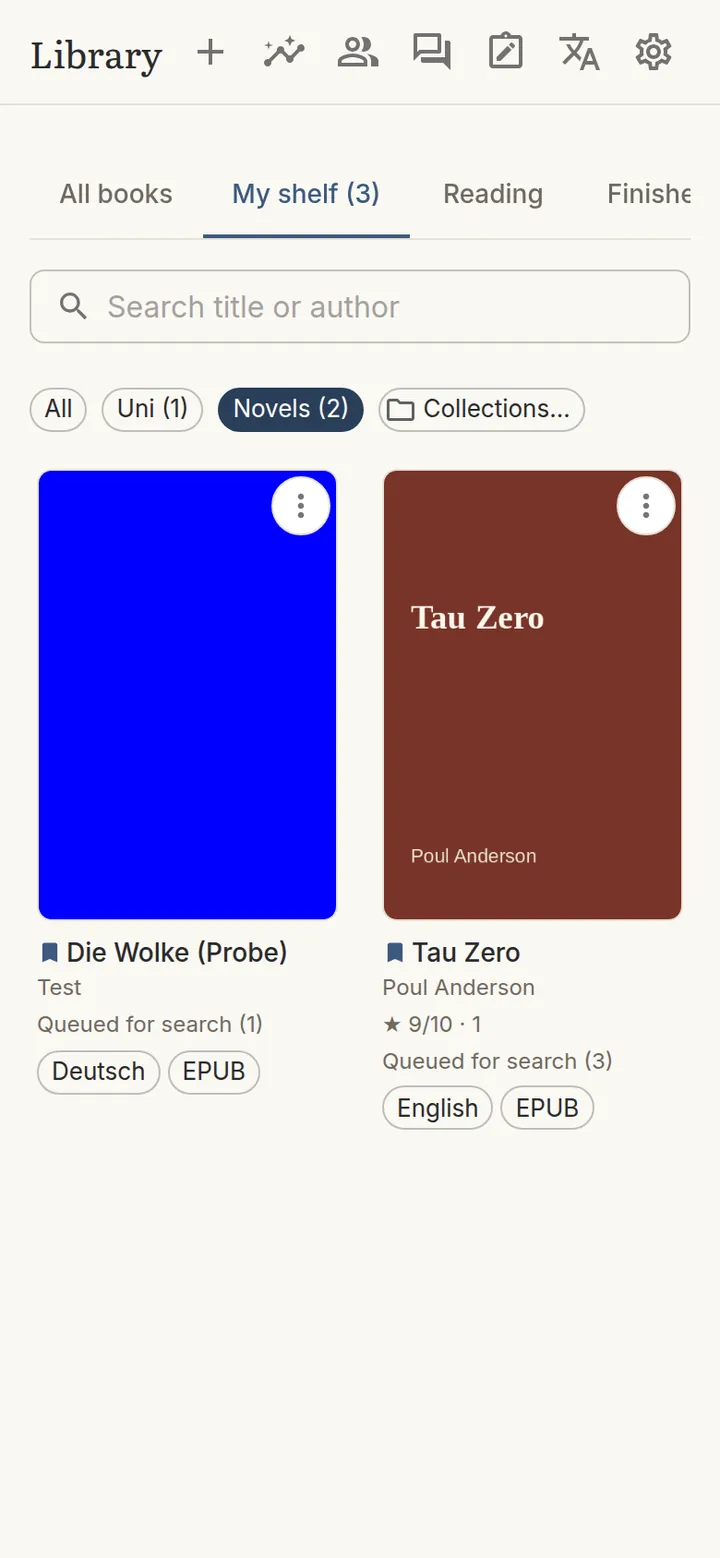
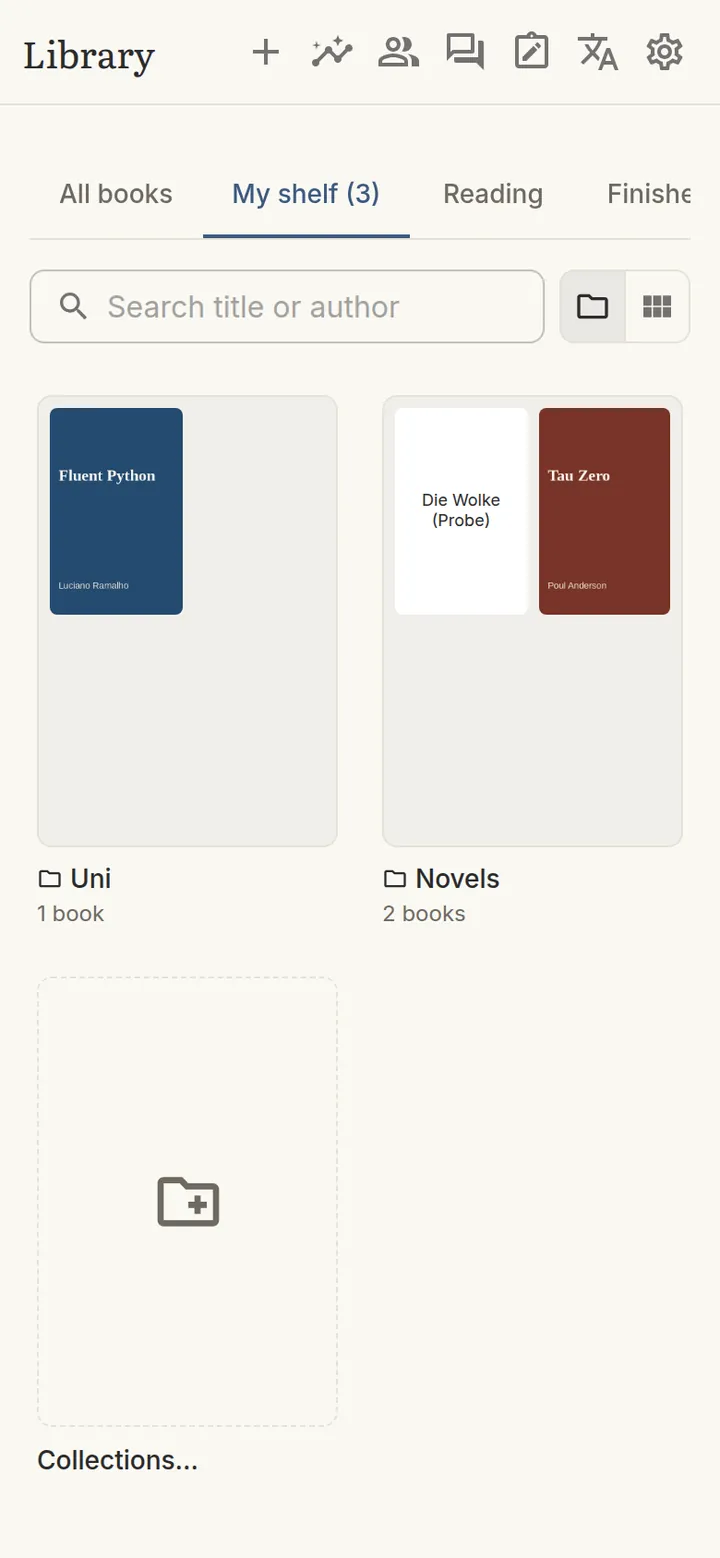
My shelf as folders: each collection a folder with its covers (tap to open, ← or Back closes it, the open one in the address), the books in no collection loose after them, a search lists matches flat (inside a folder only its books); a switch to all books flat with the chips, remembered; shelfFolder

diff --git a/frontend/src/pages/LibraryPage.tsx b/frontend/src/pages/LibraryPage.tsx
@@ -2,10 +2,12 @@ import { useEffect, useMemo, useState } from 'react';
 import { Alert, Box, Button, Card, CardActionArea, Chip, IconButton, InputAdornment, LinearProgress, Menu, MenuItem, Stack, Tab, Tabs,
   TextField, Typography } from '@mui/material';
 import MoreVertIcon from '@mui/icons-material/MoreVert';
+import ArrowBackIcon from '@mui/icons-material/ArrowBack';
 import BookmarkIcon from '@mui/icons-material/Bookmark';
 import { cachedCollections, cachedMyShelf, cachedShelf, loadCollections, loadMyShelf, loadShelf, setOnMyShelf, setShelfStatus,
-  subscribeShelf, type Collection, type MyShelfEntry, type ShelfEntry, type ShelfStatus } from '@/services/shelf';
-import { BookCollections, CollectionChips, type CollectionFilter } from '@/components/collections';
+  shelfFolders, subscribeShelf, type Collection, type MyShelfEntry, type ShelfEntry, type ShelfStatus } from '@/services/shelf';
+import { BookCollections, CollectionChips, CollectionFolder, ManageCollectionsTile, ShelfViewToggle, type CollectionFilter,
+  type ShelfView } from '@/components/collections';
 import { getPref, setPref } from '@/services/prefs';
 import { api } from '@/services/api';
 import { ratings as fetchRatings, type RatingSummary } from '@/services/community';
@@ -19,7 +21,7 @@ import { cachedStats, formatMinutes, getReadingGoal, getStats, type ReadingGoal 
 import SearchIcon from '@mui/icons-material/Search';
 import CloudOffOutlinedIcon from '@mui/icons-material/CloudOffOutlined';
 import DownloadDoneIcon from '@mui/icons-material/DownloadDone';
-import { useNavigate } from 'react-router-dom';
+import { useLocation, useNavigate, useSearchParams } from 'react-router-dom';
 import { BookCover } from '@/components/BookCover';
 import { useBookCache } from '@/hooks/useBookCache';
 import { useCoverUrl } from '@/hooks/useCoverUrl';
@@ -204,8 +206,20 @@ export default function LibraryPage() {
   useEffect(() => {
     void getPref<LibraryTab>('library_tab').then((saved) => setTab((t) => t ?? saved ?? null));
     void getPref<CollectionFilter>('shelf_collection').then((c) => c && setCollection(c));
+    void getPref<ShelfView>('shelf_view').then((v) => v && setShelfView(v));
   }, []);
   const pickCollection = (c: CollectionFilter) => { setCollection(c); void setPref('shelf_collection', c); };
+  // My shelf as folders: the open one is in the address, so Back (Android's too) closes it
+  const [shelfView, setShelfView] = useState<ShelfView>('folders');
+  const pickShelfView = (v: ShelfView) => { setShelfView(v); void setPref('shelf_view', v); };
+  const [params, setParams] = useSearchParams();
+  const location = useLocation();
+  const navigate = useNavigate();
+  const openFolder = (id: string) => setParams({ folder: id }, { state: { folder: true } });
+  const closeFolder = () => {
+    if ((location.state as { folder?: boolean } | null)?.folder) navigate(-1);
+    else setParams({}, { replace: true });
+  };
   // Categories: browse All books by them (the last choice is remembered)
   const [tree, setTree] = useState<Category[]>([]);
   const [category, setCategory] = useState<CategoryFilter>(null);
@@ -229,18 +243,27 @@ export default function LibraryPage() {
     [c.id, c.book_ids.filter((b) => inLibrary.has(b) && mineIds.has(b)).length])), [collections, inLibrary, mineIds]);
   const inSomeCollection = useMemo(() => new Set(collections.flatMap((c) => c.book_ids)), [collections]);
   const unsorted = mine.filter((e) => inLibrary.has(e.book_id) && !inSomeCollection.has(e.book_id)).length;
-  const pickTab = (t: LibraryTab) => { setTab(t); void setPref('library_tab', t); };
+  const pickTab = (t: LibraryTab) => { setTab(t); void setPref('library_tab', t); if (params.has('folder')) setParams({}, { replace: true }); };
+  const asFolders = current === 'mine' && shelfView === 'folders';
+  const bookById = useMemo(() => new Map((library?.books ?? []).map((b) => [b.id, b])), [library]);
+  const split = useMemo(() => shelfFolders(collections, mine.map((e) => e.book_id).filter((b) => inLibrary.has(b))),
+    [collections, mine, inLibrary]);
+  // a folder deleted (maybe on another device) shows the shelf again
+  const folder = asFolders ? split.folders.find((f) => f.collection.id === params.get('folder')) : undefined;
+  const showFolders = asFolders && !folder && !query.trim();
 
   const books = useMemo(() => {
     const q = query.trim().normalize('NFD').replace(/\p{M}/gu, '').toLowerCase();
     const all = (library?.books ?? []).filter((b) => !q || matches(b, q));
     if (current === 'all') return all.filter(inCategory(tree, typeof category === 'number' && !tree.some((c) => c.id === category) ? null : category));
     const order = new Map((current === 'mine' ? mine : shelf.filter((e) => e.status === current)).map((e, i) => [e.book_id, i]));
-    const inShown = current !== 'mine' || shownCollection === 'all' ? () => true
+    const inShown = current !== 'mine' ? () => true
+      : asFolders ? (folder ? (b: Book) => folder.books.includes(b.id) : showFolders ? (b: Book) => !inSomeCollection.has(b.id) : () => true)
+      : shownCollection === 'all' ? () => true
       : shownCollection === 'none' ? (b: Book) => !inSomeCollection.has(b.id)
       : (b: Book) => !!collections.find((c) => c.id === shownCollection)?.book_ids.includes(b.id);
     return all.filter((b) => order.has(b.id) && inShown(b)).sort((a, b) => order.get(a.id)! - order.get(b.id)!);
-  }, [library, query, shelf, mine, current, tree, category, collections, shownCollection, inSomeCollection]);
+  }, [library, query, shelf, mine, current, tree, category, collections, shownCollection, inSomeCollection, asFolders, folder, showFolders]);
 
   return (
     <>
@@ -252,10 +275,22 @@ export default function LibraryPage() {
         <Tab value="reading" label={`Reading${reading.length ? ` (${reading.length})` : ''}`} />
         <Tab value="finished" label={`Finished${finished.length ? ` (${finished.length})` : ''}`} />
       </Tabs>
-      <TextField fullWidth size="small" placeholder="Search title or author" value={query}
-        onChange={(e) => setQuery(e.target.value)} sx={{ mb: 3 }}
-        slotProps={{ input: { startAdornment: <InputAdornment position="start"><SearchIcon fontSize="small" /></InputAdornment> } }} />
-      {current === 'mine' && mine.length > 0 && (
+      <Stack direction="row" spacing={1} sx={{ mb: 3 }}>
+        <TextField fullWidth size="small" placeholder={folder ? `Search in ${folder.collection.name}` : 'Search title or author'} value={query}
+          onChange={(e) => setQuery(e.target.value)}
+          slotProps={{ input: { startAdornment: <InputAdornment position="start"><SearchIcon fontSize="small" /></InputAdornment> } }} />
+        {current === 'mine' && mine.length > 0 && <ShelfViewToggle value={shelfView} onChange={pickShelfView} />}
+      </Stack>
+      {folder && (
+        <Stack direction="row" alignItems="center" spacing={1} sx={{ mb: 2 }}>
+          <IconButton size="small" aria-label="Back to My shelf" onClick={closeFolder}><ArrowBackIcon fontSize="small" /></IconButton>
+          <Typography variant="subtitle1" sx={{ fontWeight: 500 }} noWrap>{folder.collection.name}</Typography>
+          <Typography variant="body2" color="text.secondary" sx={{ flexShrink: 0 }}>
+            · {folder.books.length} book{folder.books.length === 1 ? '' : 's'}
+          </Typography>
+        </Stack>
+      )}
+      {current === 'mine' && !asFolders && mine.length > 0 && (
         <CollectionChips collections={collections} value={shownCollection} onChange={pickCollection}
           counts={collectionCounts} unsorted={unsorted} />
       )}
@@ -266,10 +301,11 @@ export default function LibraryPage() {
       {error && !library && (
         <Alert severity="warning" action={<Button onClick={() => void refresh()}>Retry</Button>}>{error}</Alert>
       )}
-      {library && books.length === 0 && (
+      {library && books.length === 0 && !(showFolders && mine.length) && (
         <Typography color="text.secondary" sx={{ textAlign: 'center', mt: 6 }}>
           {library.books.length === 0 ? 'No books yet. Add some with the desktop tool.'
             : query ? 'No book matches.'
+            : folder ? 'No book in this collection yet: ⋮ → Collections… on a book.'
             : current === 'mine' && mine.length && shownCollection === 'none' ? 'Every book on your shelf is in a collection.'
             : current === 'mine' && mine.length ? 'No book in this collection yet: ⋮ → Collections… on a book.'
             : current === 'mine' ? 'Nothing on your shelf yet: use ⋮ → Add to My shelf on any book.'
@@ -278,11 +314,16 @@ export default function LibraryPage() {
         </Typography>
       )}
       <Box sx={{ display: 'grid', gap: 2, gridTemplateColumns: 'repeat(auto-fill, minmax(140px, 1fr))' }}>
+        {showFolders && mine.length > 0 && split.folders.map((f) => (
+          <CollectionFolder key={f.collection.id} name={f.collection.name} files={files} online={online}
+            books={f.books.map((b) => bookById.get(b)!)} onOpen={() => openFolder(f.collection.id)} />
+        ))}
         {books.map((book) => <BookCard key={book.id} book={book} files={files} online={online} shelf={byId.get(book.id)}
             mine={mineIds.has(book.id)} collections={collections} badge={current === 'mine' || current === 'all'}
             job={jobs.get(book.id)} rating={ratings[book.id]} canDelete={!!book.can_change}
             category={book.category_id ? leafName.get(book.category_id) : undefined}
             onDeleted={() => void refresh()} onChanged={() => { void refresh(); reloadTree(); }} />)}
+        {showFolders && mine.length > 0 && <ManageCollectionsTile collections={collections} />}
       </Box>
     </>
   );

diff --git a/frontend/src/components/collections.tsx b/frontend/src/components/collections.tsx
@@ -1,16 +1,25 @@
 import { useState } from 'react';
-import { Button, Checkbox, Chip, Dialog, DialogActions, DialogContent, DialogTitle, IconButton, List, ListItem,
-  ListItemButton, ListItemIcon, ListItemText, Stack, TextField } from '@mui/material';
+import { Box, Button, Card, CardActionArea, Checkbox, Chip, Dialog, DialogActions, DialogContent, DialogTitle, IconButton, List,
+  ListItem, ListItemButton, ListItemIcon, ListItemText, Stack, TextField, ToggleButton, ToggleButtonGroup,
+  Typography } from '@mui/material';
 import ArrowDownwardIcon from '@mui/icons-material/ArrowDownward';
 import ArrowUpwardIcon from '@mui/icons-material/ArrowUpward';
 import DeleteOutlineIcon from '@mui/icons-material/DeleteOutline';
 import EditOutlinedIcon from '@mui/icons-material/EditOutlined';
 import FolderOutlinedIcon from '@mui/icons-material/FolderOutlined';
+import CreateNewFolderOutlinedIcon from '@mui/icons-material/CreateNewFolderOutlined';
+import ViewModuleIcon from '@mui/icons-material/ViewModule';
+import { useCoverUrl } from '@/hooks/useCoverUrl';
+import type { CachedFile } from '@/services/bookCache';
+import type { Book } from '@/services/types';
 import { createCollection, deleteCollection, moveCollection, renameCollection, setInCollection,
   type Collection } from '@/services/shelf';
 
 /** Which books My shelf shows: all, one collection, or those in none */
 export type CollectionFilter = 'all' | 'none' | string;
+
+/** My shelf as folders (one per collection, the rest loose) or every book flat */
+export type ShelfView = 'folders' | 'flat';
 
 const MAX_NAME = 60;
 
@@ -33,6 +42,64 @@ export function CollectionChips({ collections, value, onChange, counts, unsorted
       <ManageCollections open={managing} collections={collections} onClose={() => setManaging(false)}
         onDeleted={(id) => value === id && onChange('all')} />
     </Stack>
+  );
+}
+
+export function ShelfViewToggle({ value, onChange }: { value: ShelfView; onChange: (v: ShelfView) => void }) {
+  return (
+    <ToggleButtonGroup size="small" exclusive value={value} onChange={(_, v: ShelfView | null) => v && onChange(v)}>
+      <ToggleButton value="folders" aria-label="Folders" title="Collections as folders"><FolderOutlinedIcon fontSize="small" /></ToggleButton>
+      <ToggleButton value="flat" aria-label="All books flat" title="All books flat"><ViewModuleIcon fontSize="small" /></ToggleButton>
+    </ToggleButtonGroup>
+  );
+}
+
+const tile = { aspectRatio: '2 / 3', borderRadius: 1, border: 1, borderColor: 'divider' } as const;
+
+/** A collection on My shelf as a folder: up to four of its covers, its name and how many books */
+export function CollectionFolder({ name, books, files, online, onOpen }: {
+  name: string; books: Book[]; files: Record<string, CachedFile>; online: boolean; onOpen: () => void;
+}) {
+  return (
+    <Card sx={{ border: 0, bgcolor: 'transparent' }}>
+      <CardActionArea onClick={onOpen} aria-label={`Open ${name}`} sx={{ p: 0.5, borderRadius: 1 }}>
+        <Box sx={{ ...tile, bgcolor: 'action.hover', p: 0.75, display: 'grid', gap: 0.75,
+          gridTemplateColumns: '1fr 1fr', gridTemplateRows: '1fr 1fr' }}>
+          {books.length ? books.slice(0, 4).map((b) => <MiniCover key={b.id} book={b} files={files} online={online} />)
+            : <FolderOutlinedIcon sx={{ gridArea: '1 / 1 / 3 / 3', placeSelf: 'center', fontSize: 48, color: 'text.secondary' }} />}
+        </Box>
+        <Typography variant="body2" sx={{ mt: 1, fontWeight: 500, lineHeight: 1.3 }} noWrap title={name}>
+          <FolderOutlinedIcon sx={{ fontSize: 14, mr: 0.5, verticalAlign: '-2px' }} />{name}
+        </Typography>
+        <Typography variant="caption" color="text.secondary" component="div">{books.length} book{books.length === 1 ? '' : 's'}</Typography>
+      </CardActionArea>
+    </Card>
+  );
+}
+
+function MiniCover({ book, files, online }: { book: Book; files: Record<string, CachedFile>; online: boolean }) {
+  const src = useCoverUrl(book, files[`${book.id}/cover`], online);
+  return (
+    <Box sx={{ borderRadius: 0.5, overflow: 'hidden', bgcolor: 'background.paper', minHeight: 0, display: 'grid', placeItems: 'center' }}>
+      {src ? <Box component="img" src={src} alt="" loading="lazy" sx={{ width: '100%', height: '100%', objectFit: 'cover' }} />
+        : <Typography sx={{ fontSize: 9, lineHeight: 1.2, textAlign: 'center', p: 0.5, overflow: 'hidden' }}>{book.title}</Typography>}
+    </Box>
+  );
+}
+
+/** The last tile among the folders: opens the dialog that makes, renames, orders and deletes collections */
+export function ManageCollectionsTile({ collections }: { collections: Collection[] }) {
+  const [managing, setManaging] = useState(false);
+  return (
+    <Card sx={{ border: 0, bgcolor: 'transparent' }}>
+      <CardActionArea onClick={() => setManaging(true)} sx={{ p: 0.5, borderRadius: 1 }}>
+        <Box sx={{ ...tile, borderStyle: 'dashed', display: 'grid', placeItems: 'center', color: 'text.secondary' }}>
+          <CreateNewFolderOutlinedIcon sx={{ fontSize: 40 }} />
+        </Box>
+        <Typography variant="body2" sx={{ mt: 1, fontWeight: 500 }}>Collections…</Typography>
+      </CardActionArea>
+      <ManageCollections open={managing} collections={collections} onClose={() => setManaging(false)} onDeleted={() => undefined} />
+    </Card>
   );
 }
 

diff --git a/frontend/src/components/manual/content/library.tsx b/frontend/src/components/manual/content/library.tsx
@@ -73,11 +73,15 @@ export const library: ManualChapter = {
         <>
           <p><strong>My shelf</strong> is your own pick of books, apart from what you're reading: the ones you want to keep
             at hand. Collections group them, e.g. <em>Uni</em>, <em>Krimis</em>, <em>To read in summer</em>.</p>
-          <Screenshot name="shelf" caption="My shelf, filtered by a collection" />
+          <Screenshot name="shelf" caption="My shelf, its collections as folders" />
           <ul>
-            <li>The chips above the books filter: <Ui>All</Ui>, each collection with its count, and <Ui>Not in a collection</Ui>.</li>
-            <li><Ui>Collections…</Ui> (the last chip) makes, renames, orders and deletes collections. Deleting a
-              collection never removes its books.</li>
+            <li>Each collection is a <strong>folder</strong>: tap it to see its books, tap ← (or Back) to close it. The books in
+              no collection lie loose after the folders.</li>
+            <li>Searching shows every matching book on the shelf; inside a folder, only the ones in it.</li>
+            <li>The two buttons next to the search switch between <Ui>Folders</Ui> and <Ui>All books flat</Ui>. Flat, chips
+              above the books filter: <Ui>All</Ui>, each collection with its count, and <Ui>Not in a collection</Ui>.</li>
+            <li><Ui>Collections…</Ui> (the last tile, or the last chip) makes, renames, orders and deletes collections.
+              Deleting a collection never removes its books.</li>
             <li>A book can be in several collections. Putting it in one also puts it on My shelf; taking it off My shelf
               takes it out of its collections.</li>
           </ul>

diff --git a/frontend/src/services/shelf.test.ts b/frontend/src/services/shelf.test.ts
@@ -1,6 +1,6 @@
 import { ApiError } from '@/services/api';
 import { cachedCollections, cachedMyShelf, createCollection, deleteCollection, loadCollections, loadMyShelf, loadShelf,
-  moveCollection, renameCollection, setInCollection, setOnMyShelf, setShelfStatus } from './shelf';
+  moveCollection, renameCollection, setInCollection, setOnMyShelf, setShelfStatus, shelfFolders } from './shelf';
 
 const net = vi.hoisted(() => ({ online: false, gone: new Set<string>(), calls: [] as string[],
   shelf: [] as object[], mine: [] as object[], collections: [] as object[] }));
@@ -83,5 +83,14 @@ describe('collections', () => {
     net.calls.length = 0;
     await loadCollections();
     expect(net.calls).toEqual([]);
+  });
+});
+
+describe('shelfFolders', () => {
+  it('puts each collection\'s books in shelf order and leaves the rest loose', () => {
+    const col = (id: string, book_ids: string[]) => ({ id, name: id, position: 0, book_ids });
+    const { folders, loose } = shelfFolders([col('A', ['b3', 'b1', 'gone']), col('B', ['b1']), col('C', [])], ['b1', 'b2', 'b3', 'b4']);
+    expect(folders.map((f) => [f.collection.id, f.books])).toEqual([['A', ['b1', 'b3']], ['B', ['b1']], ['C', []]]);
+    expect(loose).toEqual(['b2', 'b4']);
   });
 });

diff --git a/frontend/src/services/shelf.ts b/frontend/src/services/shelf.ts
@@ -214,3 +214,13 @@ export async function setInCollection(id: string, bookId: string, on: boolean): 
     ...c, book_ids: on ? [bookId, ...c.book_ids.filter((b) => b !== bookId)] : c.book_ids.filter((b) => b !== bookId) })),
   { op: on ? 'add' : 'remove', id, book_id: bookId });
 }
+
+/** My shelf in folders: each collection with its books in shelf order (`shelf`: the shelf's book ids, in order),
+ *  and the books in no collection */
+export function shelfFolders(collections: Collection[], shelf: string[]): { folders: { collection: Collection; books: string[] }[]; loose: string[] } {
+  const inSome = new Set(collections.flatMap((c) => c.book_ids));
+  return {
+    folders: collections.map((c) => { const ids = new Set(c.book_ids); return { collection: c, books: shelf.filter((b) => ids.has(b)) }; }),
+    loose: shelf.filter((b) => !inSome.has(b)),
+  };
+}

diff --git a/e2e/tests/test_library.py b/e2e/tests/test_library.py
@@ -36,13 +36,22 @@ def test_a_collection_groups_my_shelf_and_survives_a_reload(page, api, book_id):
     assert page.get_by_role("checkbox").first.is_checked()  # the new collection has the book
     page.get_by_role("button", name="Done").click()
     page.get_by_role("tab", name=re.compile("My shelf")).click()
-    page.get_by_role("button", name="Krimis (1)").click()
+    # as folders (the default): the book is inside "Krimis", not loose on the shelf
+    page.get_by_role("button", name="Open Krimis").wait_for()
+    assert page.get_by_label(f"{TITLE}: shelf").count() == 0
+    page.get_by_role("button", name="Open Krimis").click()
     page.get_by_text(TITLE).first.wait_for()
     cols = until(lambda: [c for c in api.get("/api/shelf/collections").json() if c["book_ids"] == [book_id]],
                  what="the collection on the server")
     assert cols[0]["name"] == "Krimis"
-    page.reload()
-    page.get_by_role("button", name="Krimis (1)").wait_for()
+    page.reload()  # the open folder is in the address
+    page.get_by_label("Back to My shelf").wait_for()
+    page.get_by_text(TITLE).first.wait_for()
+    page.go_back()
+    page.get_by_role("button", name="Open Krimis").wait_for()
+    # all books flat: the chips filter again
+    page.get_by_role("button", name="All books flat").click()
+    page.get_by_role("button", name="Krimis (1)").click()
     page.get_by_text(TITLE).first.wait_for()
     # clean up for the other journeys: deleting the collection keeps the book on My shelf
     page.get_by_role("button", name="Collections…").click()

diff --git a/e2e/tests/manual_capture.py b/e2e/tests/manual_capture.py
@@ -210,8 +210,8 @@ def test_library_and_menus(world, phone, tablet):
     shot(phone, "book-menu")
     phone.keyboard.press("Escape")
     phone.get_by_role("tab", name=re.compile("My shelf")).click()
-    phone.get_by_role("button", name=re.compile(r"^Novels")).click()
-    phone.wait_for_timeout(800)
+    phone.get_by_role("button", name="Open Novels").wait_for()
+    phone.wait_for_timeout(1200)  # covers
     shot(phone, "shelf")
 
 

diff --git a/docs/14-my-shelf.md b/docs/14-my-shelf.md
@@ -15,10 +15,18 @@ back, like the status shelf. The chat agent's `list_books` says for each book wh
 
 ## Collections
 
-On My shelf, books can be grouped in **collections** (a book can be in several). Chips above the books filter
-them: *All · <collection> (n) … · Not in a collection*; the last choice is remembered on the device.
-**Collections…** (the last chip) creates, renames, deletes and orders them; a book's ⋮ → **Collections…** ticks
-the ones it's in, or makes a new one for it.
+On My shelf, books can be grouped in **collections** (a book can be in several). My shelf shows them two ways,
+switched next to the search field and remembered on the device (`shelf_view`):
+
+- **Folders** (the default): one folder per collection (up to four covers, name, count), then the books in no
+  collection. Tapping a folder opens it (`#/?folder=<id>`, so Back, Android's too, closes it, and a reload keeps
+  it open); an unknown or deleted folder shows the shelf again. A search lists all matching shelf books flat, or
+  inside an open folder only its books.
+- **All books flat**: chips above the books filter them: *All · <collection> (n) … · Not in a collection*; the
+  last choice is remembered on the device.
+
+**Collections…** (the last tile, or the last chip) creates, renames, deletes and orders them; a book's ⋮ →
+**Collections…** ticks the ones it's in, or makes a new one for it.
 
 - Adding a book to a collection puts it on My shelf; taking it off My shelf takes it out of its collections.
 - Deleting a collection never touches its books (they stay on My shelf).
